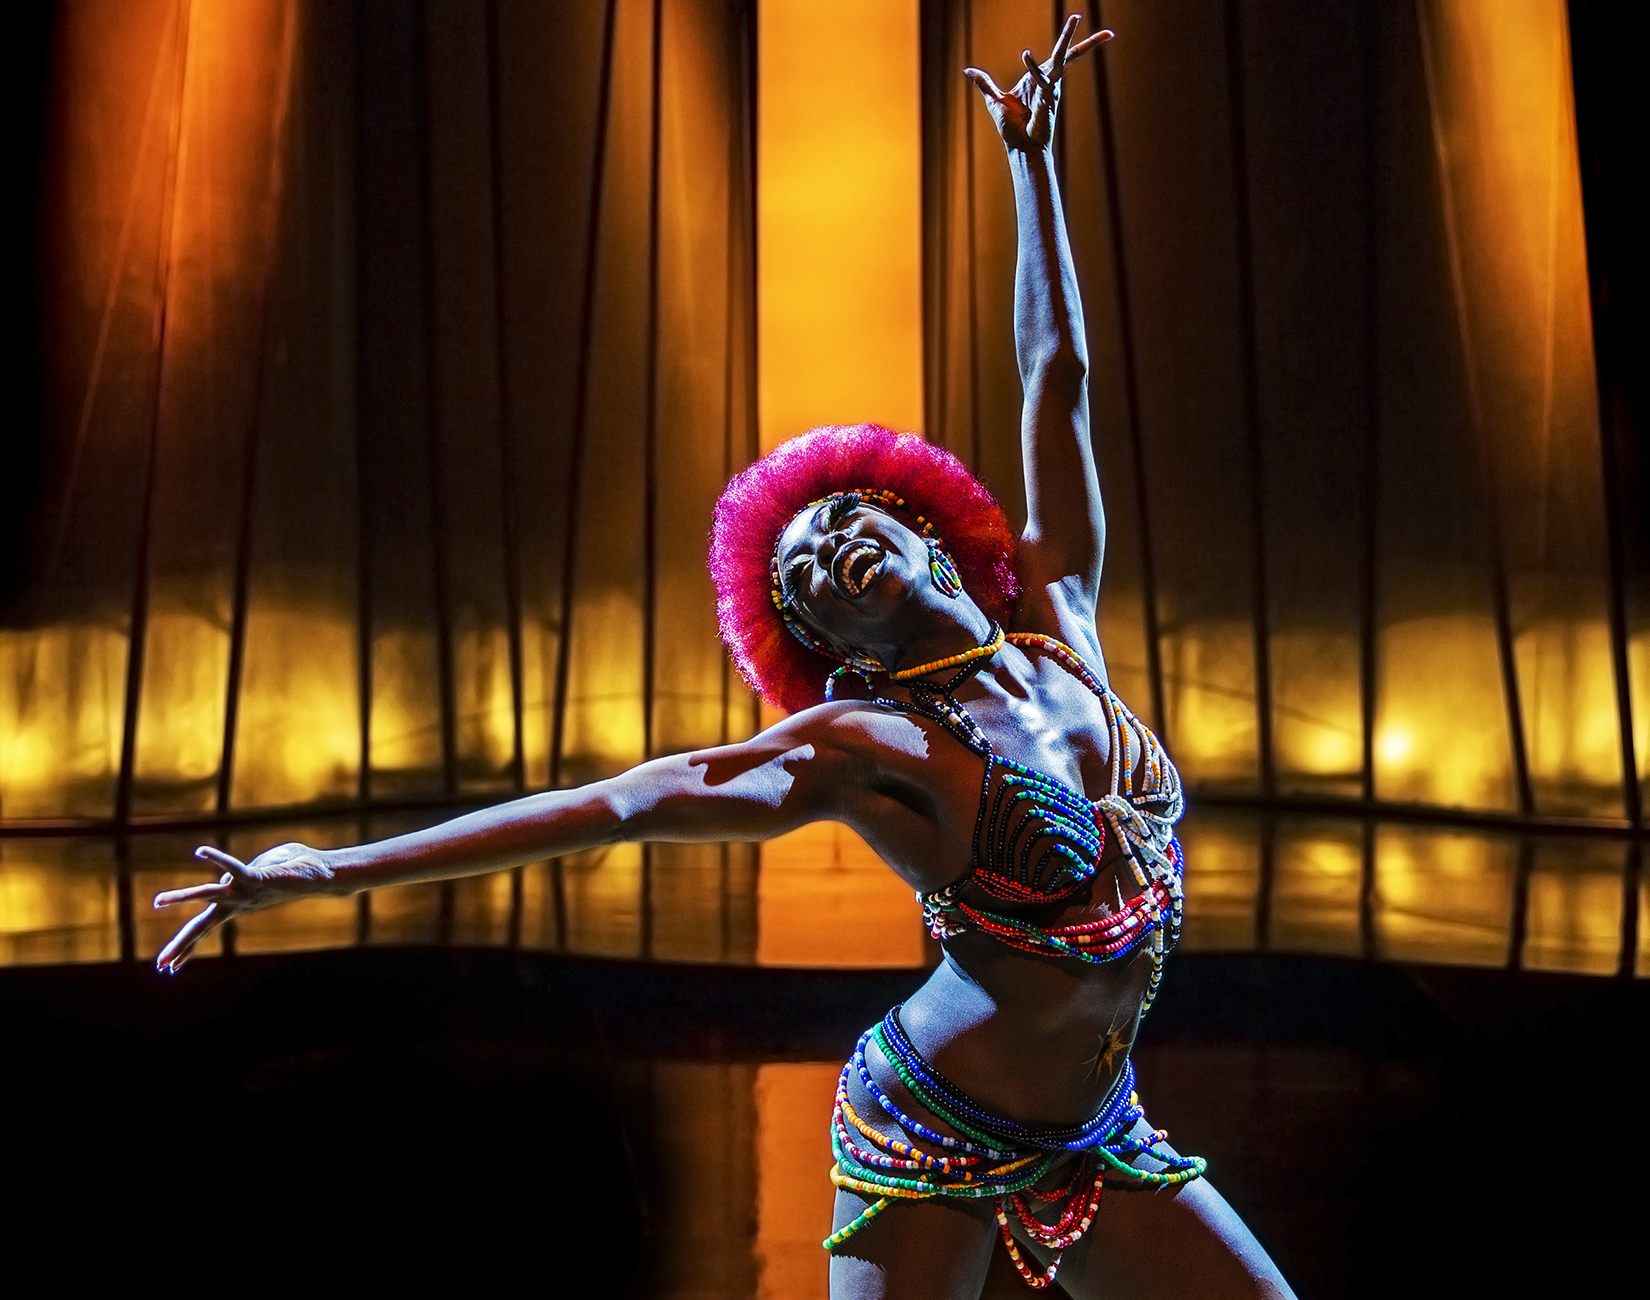
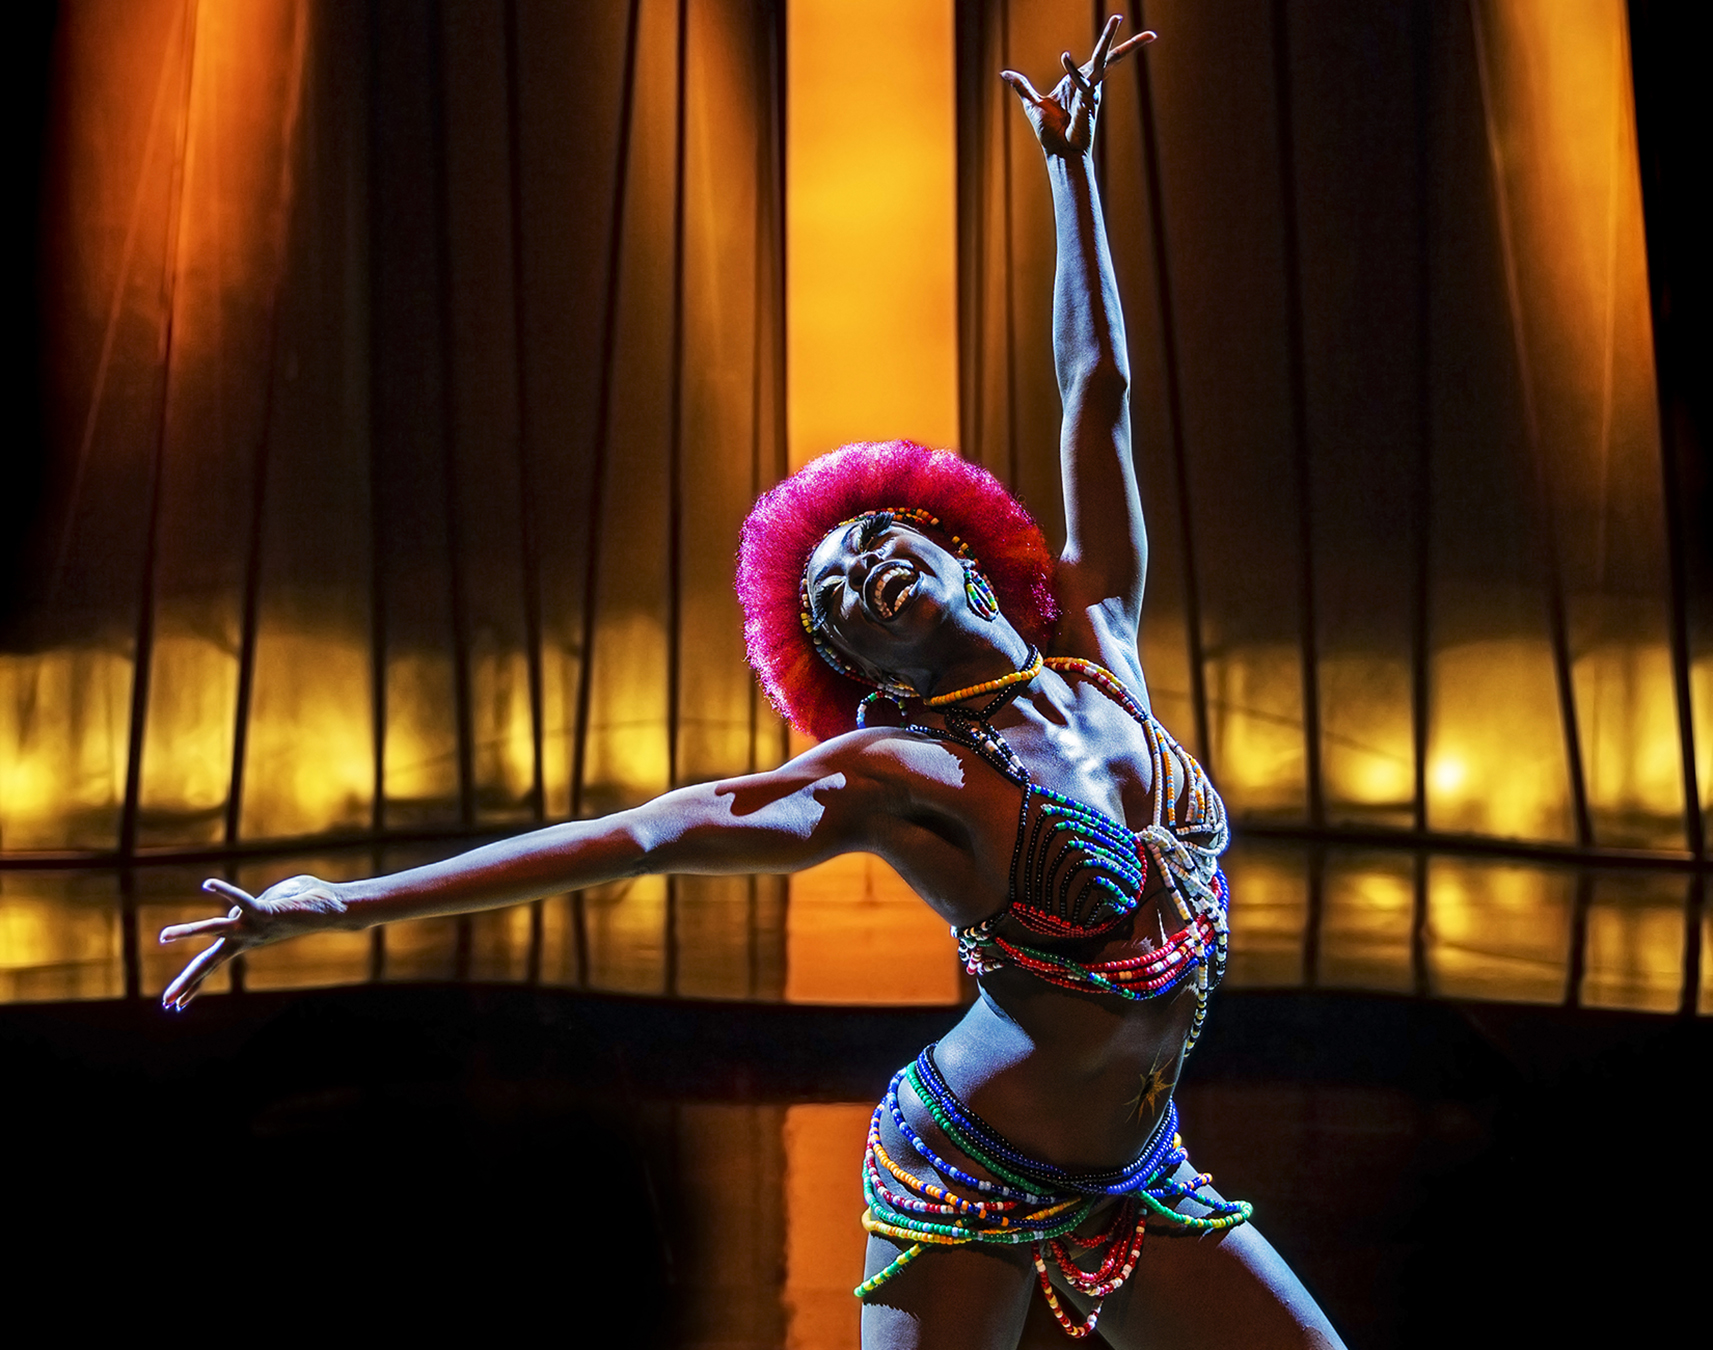
adding more files

diff --git a/index.html b/index.html
@@ -83,16 +83,16 @@ Most memorable/satisfying moment in the show: Most of our audience have never he
             <div class="overlay-content">
               <h3>Phil Burton2</h3>
 <ul>
-<li>Show: Human Nature Sings Motown & More</li>
+<p>Show: Human Nature Sings Motown & More</p>
 
-<li>Location: The Venetian Resort / Sands Showroom</li>
+<p>Location: The Venetian Resort / Sands Showroom</p>
 
-<li>Years in show: 10</li>
+<p>Years in show: 10</p>
 
-<li>Home town: Sydney, Australia</li>
+<P>Home town: Sydney, Australia</P>
 </ul>
 
-<p class="overlay-text">Background training/education: All of us have had singing lessons at various times in our life, as well as a few dance lessons here and there, but nothing formal. The closest thing to formal instruction we received was being part of a school-based entertainment training workshop called the “Talent Development Project” which gave talented young performers a basic grounding in things such as stagecraft, repertoire choices and other facets of live performance.
+<p>Background training/education: All of us have had singing lessons at various times in our life, as well as a few dance lessons here and there, but nothing formal. The closest thing to formal instruction we received was being part of a school-based entertainment training workshop called the “Talent Development Project” which gave talented young performers a basic grounding in things such as stagecraft, repertoire choices and other facets of live performance.
 
 Passions outside of work: Golf - the trick is finding time to pursue it!
 
@@ -108,16 +108,16 @@ Most memorable/satisfying moment in the show: Most of our audience have never he
             <div class="overlay-content">
               <h3>Phil Burton3</h3>
 <ul>
-<li>Show: Human Nature Sings Motown & More</li>
+<p>Show: Human Nature Sings Motown & More</p>
 
-<li>Location: The Venetian Resort / Sands Showroom</li>
+<p>Location: The Venetian Resort / Sands Showroom</p>
 
-<li>Years in show: 10</li>
+<p>Years in show: 10</p>
 
-<li>Home town: Sydney, Australia</li>
+<p>Home town: Sydney, Australia</p>
 </ul>
 
-<p class="overlay-text">Background training/education: All of us have had singing lessons at various times in our life, as well as a few dance lessons here and there, but nothing formal. The closest thing to formal instruction we received was being part of a school-based entertainment training workshop called the “Talent Development Project” which gave talented young performers a basic grounding in things such as stagecraft, repertoire choices and other facets of live performance.
+<p>Background training/education: All of us have had singing lessons at various times in our life, as well as a few dance lessons here and there, but nothing formal. The closest thing to formal instruction we received was being part of a school-based entertainment training workshop called the “Talent Development Project” which gave talented young performers a basic grounding in things such as stagecraft, repertoire choices and other facets of live performance.
 
 Passions outside of work: Golf - the trick is finding time to pursue it!
 
@@ -187,20 +187,20 @@ Most memorable/satisfying moment in the show: Most of our audience have never he
 
   <div class="carousel-inner">
     <div class="carousel-item active">
-      <img src="./img/ENTERTAINERS-bh 010.JPG" class="d-block w-100" alt="...">
+      <img src="./img/ENT-bh-020.jpg" class="d-block w-100" alt="...">
       <div class="carousel-caption d-none d-md-block">
           <span style="font-size:30px;cursor:pointer" onclick="openNav(myNav)">Click for bio</span>
       </div>
     </div>
 
     <div class="carousel-item">
-      <img src="./img/ENT-bh-003.jpg" class="d-block w-100" alt="...">
+      <img src="./img/ENT-bh-001.jpg" class="d-block w-100" alt="...">
       <div class="carousel-caption d-none d-md-block">
           <span style="font-size:30px;cursor:pointer" onclick="openNav2()">Click for bio</span>
       </div>
     </div>
     <div class="carousel-item">
-      <img src="./img/ENT-bh-004.jpg" class="d-block w-100" alt="...">
+      <img src="./img/ENT-bh-002.jpg" class="d-block w-100" alt="...">
       <div class="carousel-caption d-none d-md-block">
           <span style="font-size:30px;cursor:pointer" onclick="openNav3()">Click for bio</span>
       </div>

diff --git a/style.css b/style.css
@@ -211,7 +211,6 @@ body {
   }
 
   .contCar {
-    height: 300px;
   }
 
   #carItem {
@@ -219,12 +218,12 @@ body {
     background-color: khaki;
   }
 
- d-block.w-100 {
-    height: 900px;
+ .d-block.w-100 {
+    width: 100%;
   }
 
   .carousel-item {
-    height: 900px; 
+    height: 100%; 
 
   } 
  
